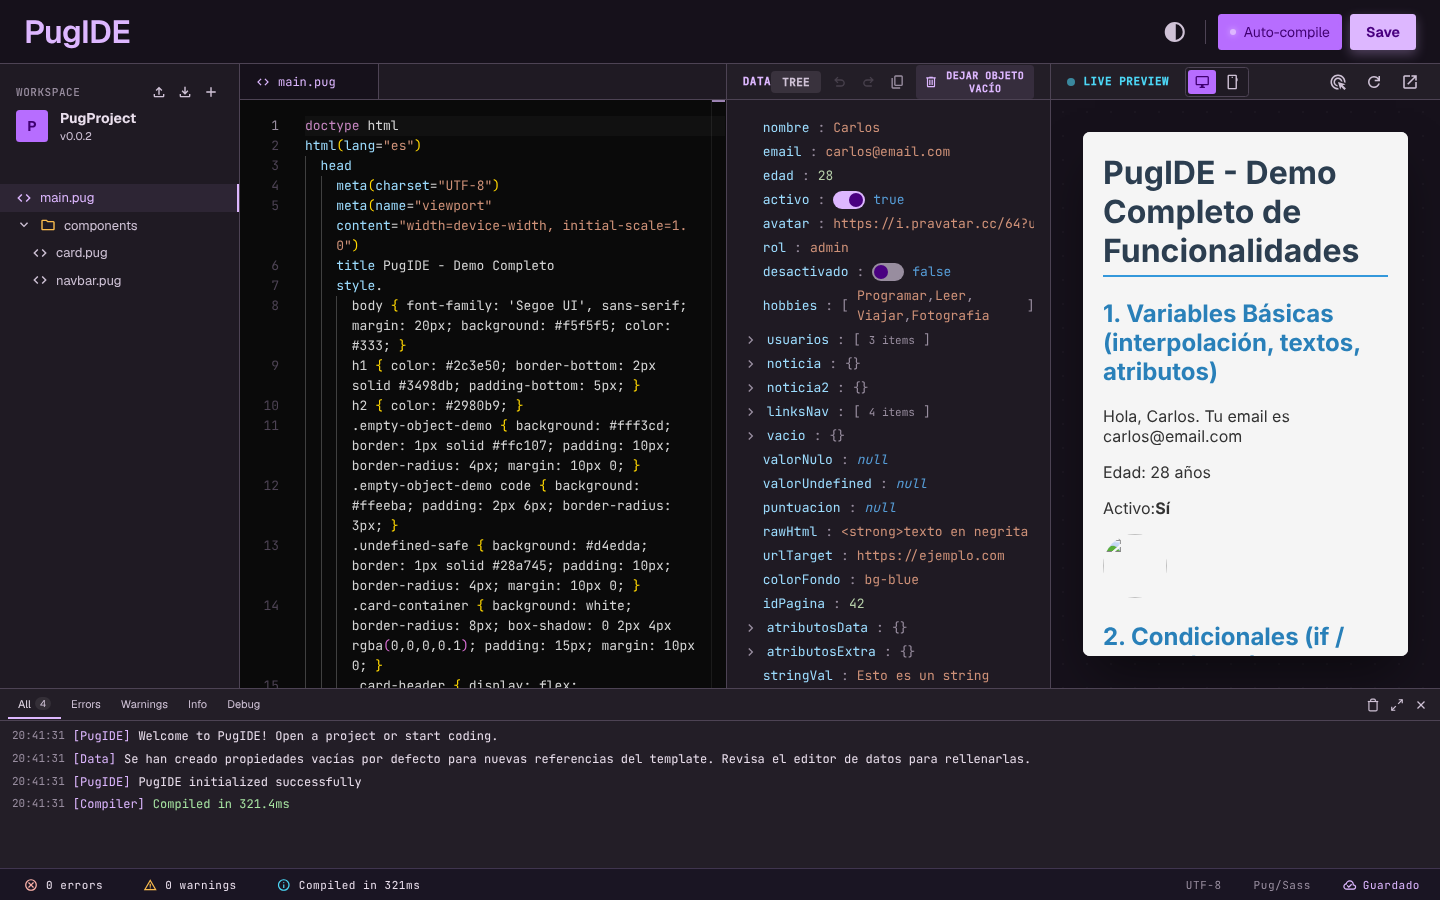
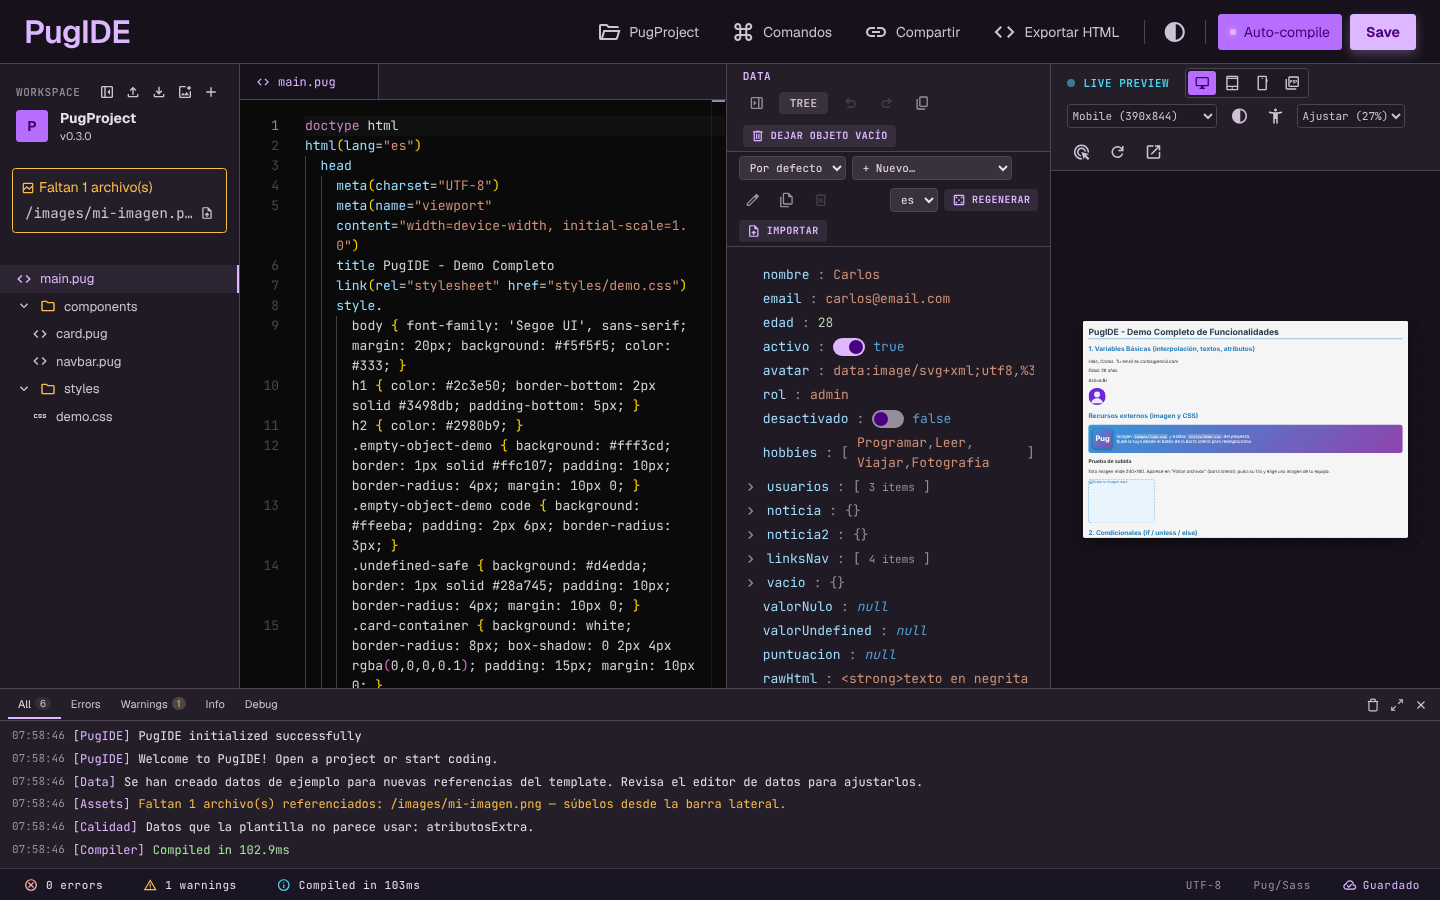
docs: capturas actualizadas (landing, IDE y paleta de comandos)
Claude-Session: https://claude.ai/code/session_015RMnTG9EogJ9gSkQWD6AnL

diff --git a/README.md b/README.md
@@ -16,6 +16,12 @@ Editor de código, árbol de datos y vista previa en vivo, con un proyecto demo 
 
 ![IDE en modo demo](docs/screenshots/ide-demo.png)
 
+### Paleta de comandos (Ctrl/Cmd+K)
+
+Acciones, plantillas de inicio, dispositivos del preview y apertura rápida de archivos.
+
+![Paleta de comandos](docs/screenshots/command-palette.png)
+
 ## Características
 
 - Editor Pug con resaltado de sintaxis (Monaco) y soporte multi-archivo (includes / componentes).
